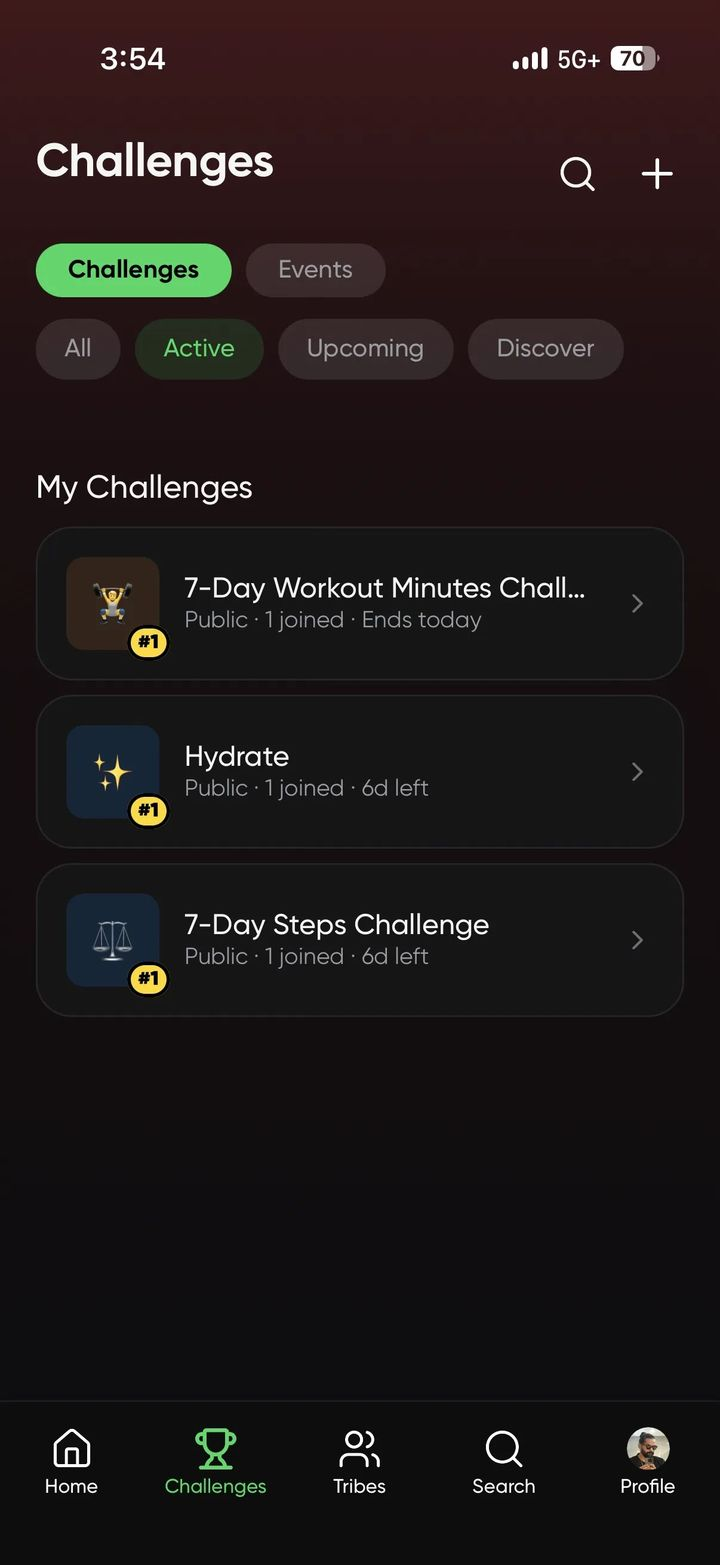
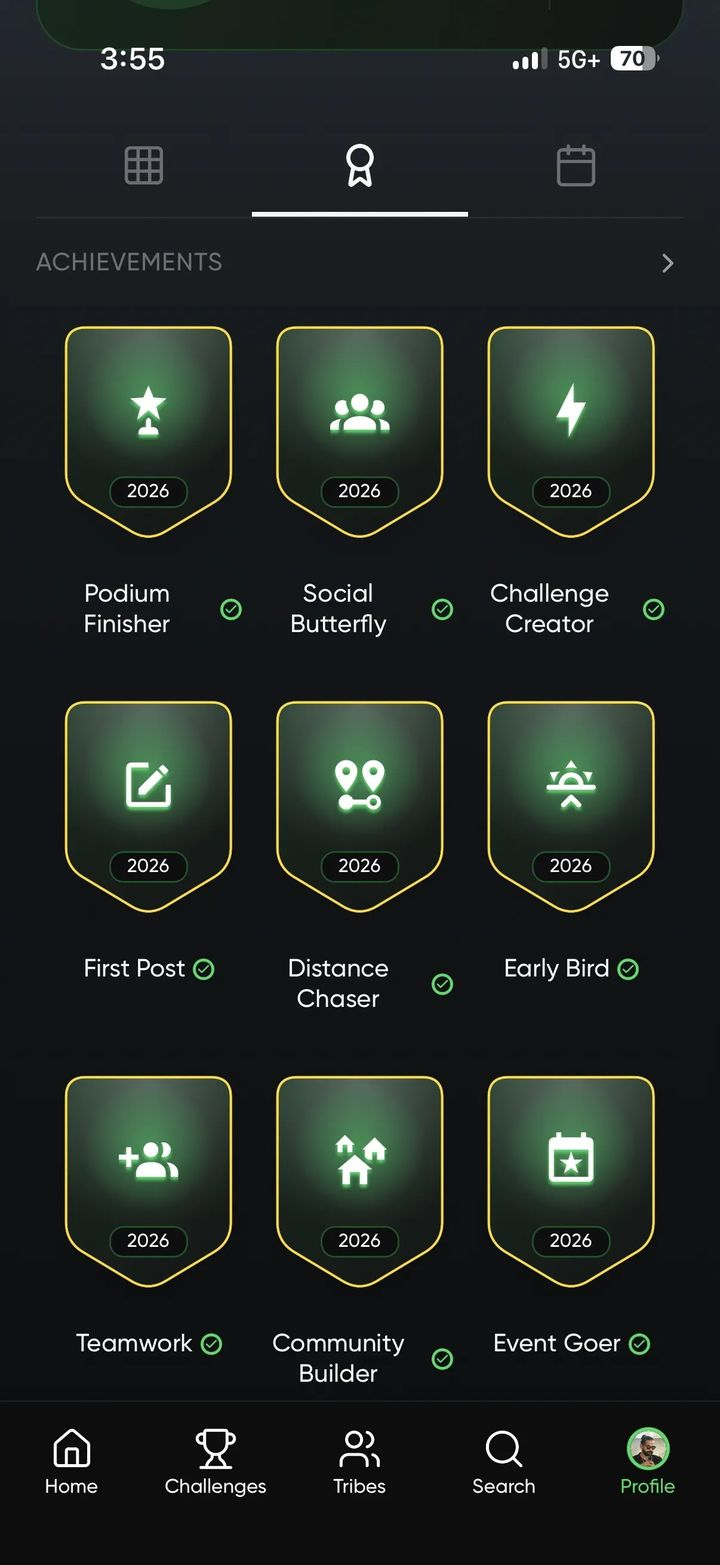
Sync website/ from sweats.in.git@a63063a

diff --git a/index.html b/index.html
@@ -578,8 +578,8 @@
             <figcaption>Challenges with real stakes</figcaption>
           </figure>
           <figure class="showcase-phone reveal">
-            <div class="frame"><img src="./assets/screens/tribes.jpg" alt="Sweats workout tribes app screen showing joined fitness tribes and nearby tribes to discover" width="220" height="479" loading="lazy" /></div>
-            <figcaption>Tribes near you</figcaption>
+            <div class="frame"><img src="./assets/screens/challenges-list.jpg" alt="Sweats challenges tab listing active challenges including a 7-day workout minutes challenge, a hydration challenge, and a 7-day steps challenge" width="220" height="479" loading="lazy" /></div>
+            <figcaption>Every challenge, one tap away</figcaption>
           </figure>
           <figure class="showcase-phone reveal">
             <div class="frame"><img src="./assets/screens/achievements.jpg" alt="Sweats fitness app achievements screen with unlocked badges like Podium Finisher and Social Butterfly" width="220" height="479" loading="lazy" /></div>
